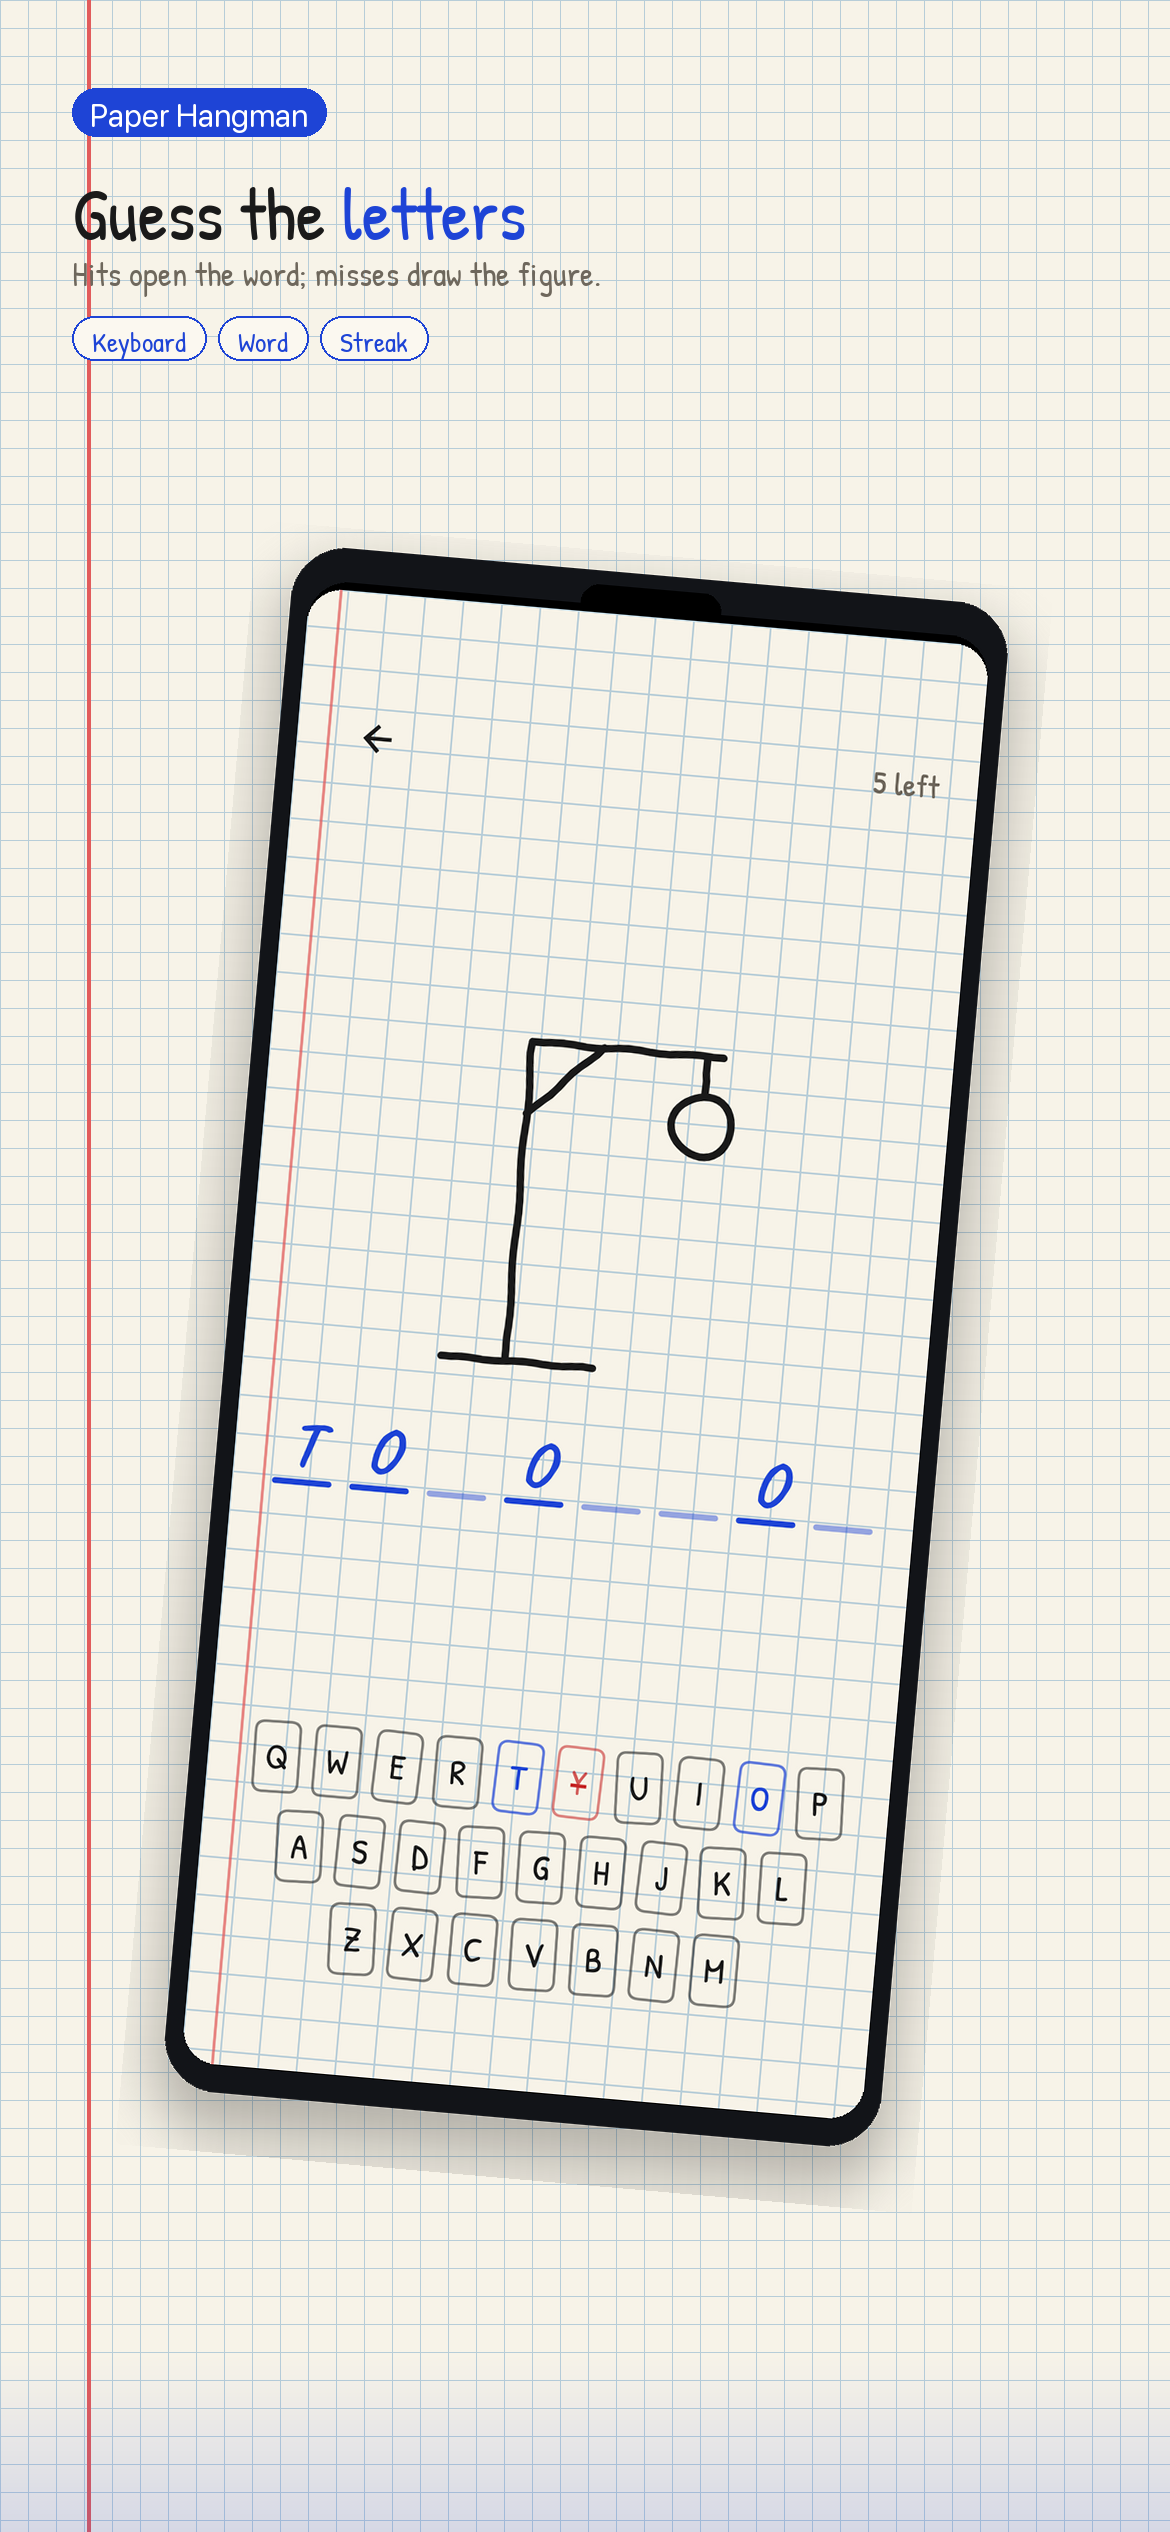
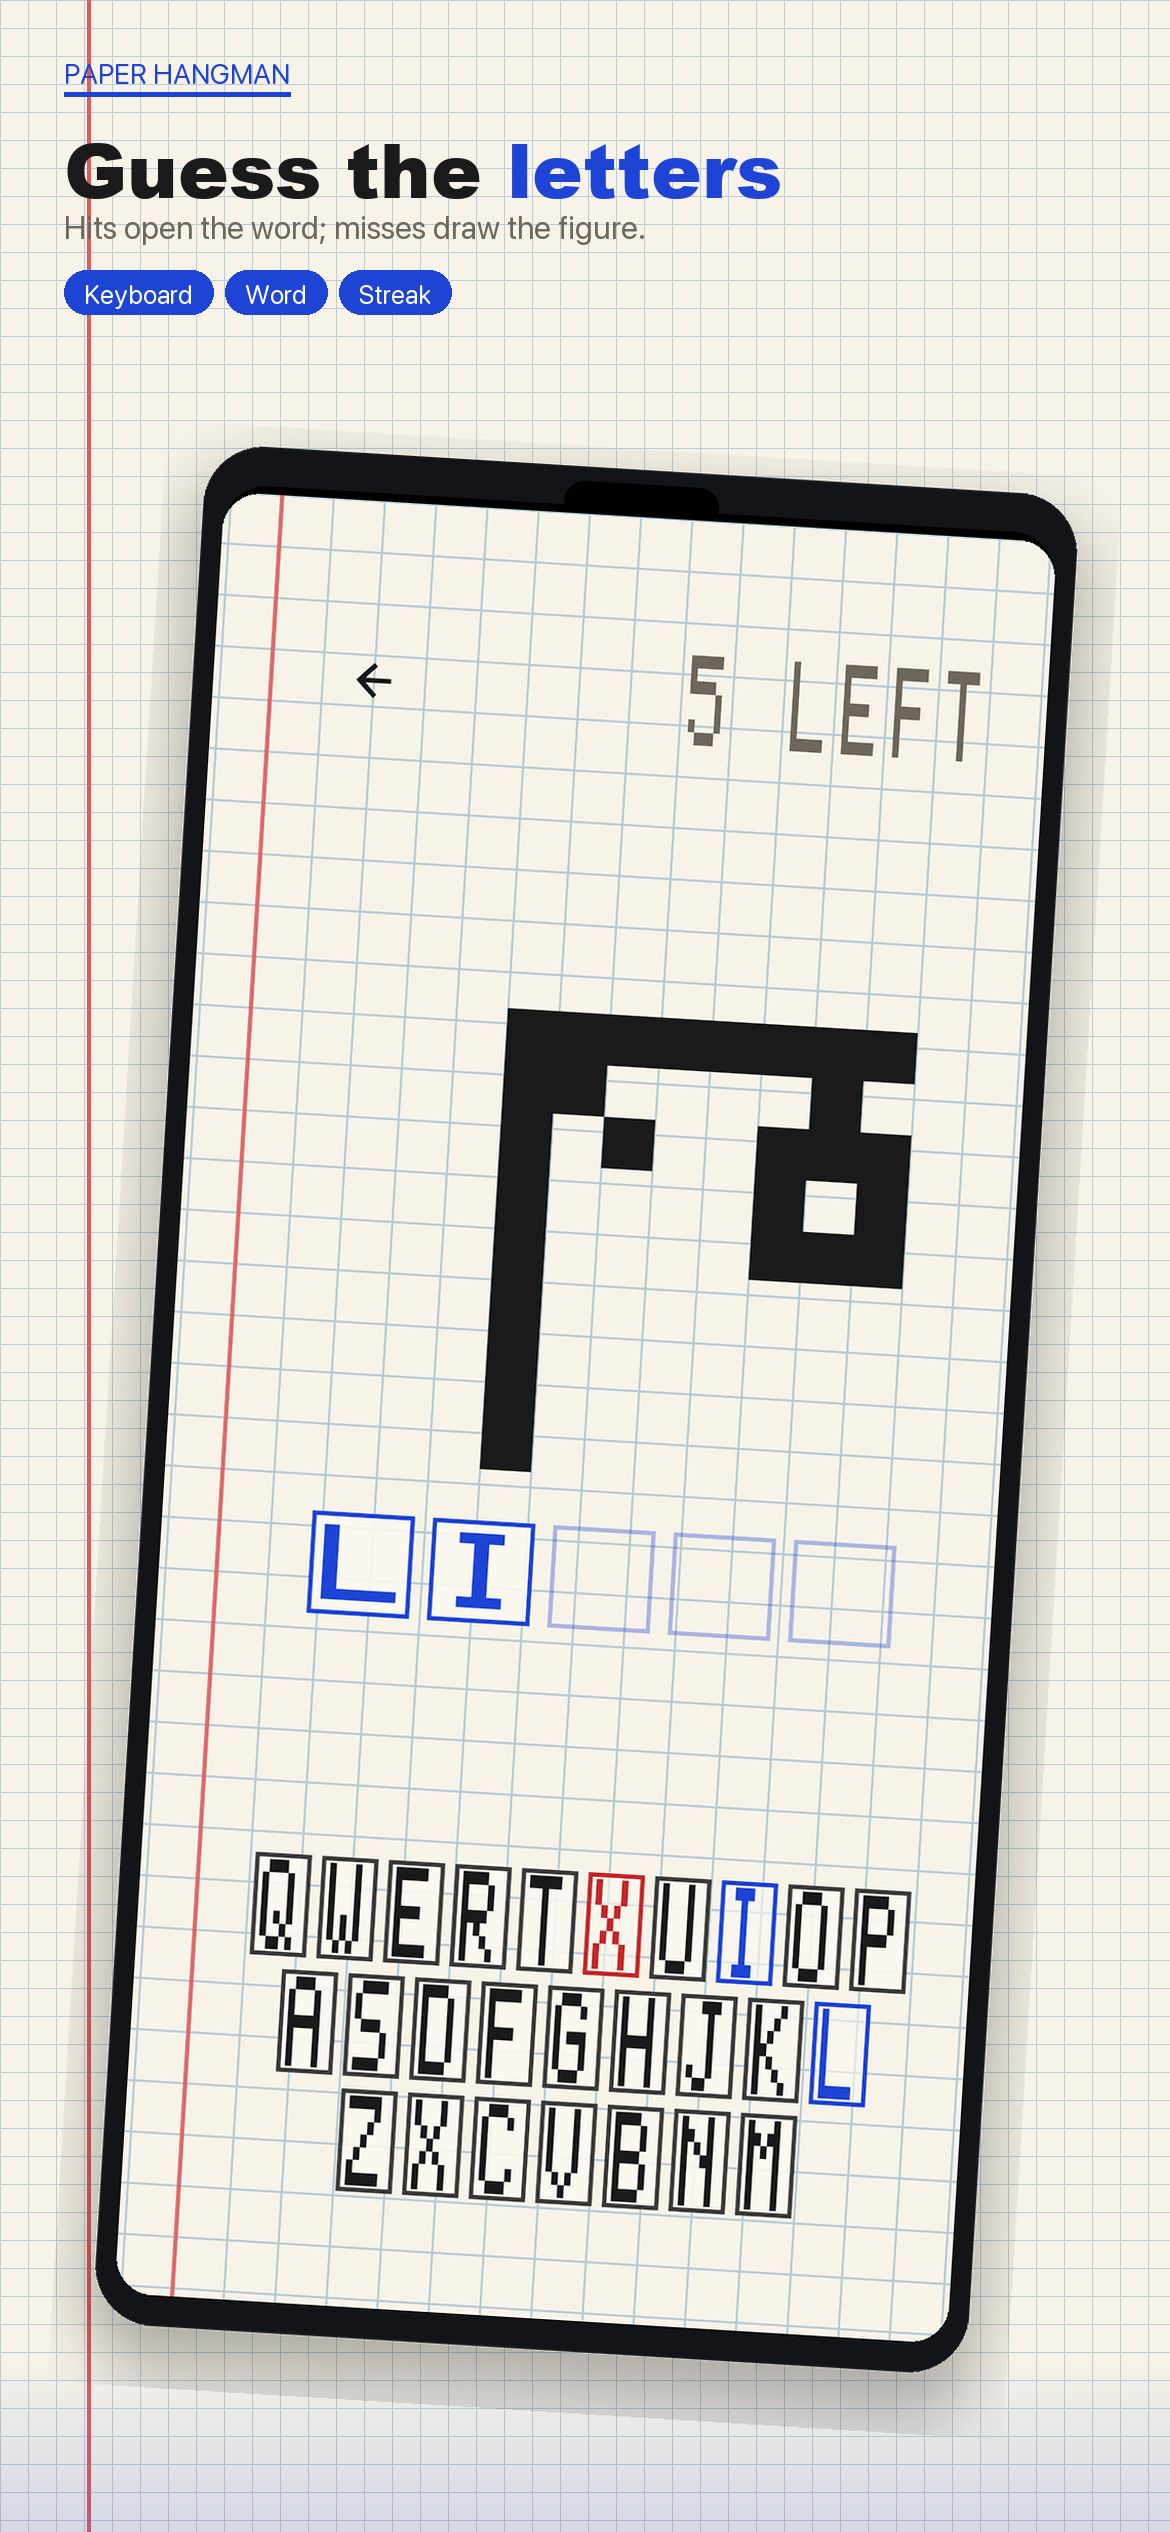
Use bold sans header style A on phone vitrines.

diff --git a/tool/make_play_vitrine.py b/tool/make_play_vitrine.py
@@ -3,6 +3,8 @@
 
 Reads play/gorseller/raw/{tr,en}/0*.png → play/gorseller/{tr,en}/0*.png
 
+Header style A: bold modern sans (Arial Black) + filled blue chips.
+
   python3 tool/make_play_vitrine.py
 """
 from __future__ import annotations
@@ -24,13 +26,11 @@ MARGIN = (225, 91, 91)  # #E15B5B
 GRID = (183, 205, 216)  # #B7CDD8
 MUTED = (110, 103, 92)
 WHITE = (255, 255, 255)
-SOFT = (251, 248, 240)
 
-FONT = "/System/Library/Fonts/SFNSRounded.ttf"
+FONT_SF = "/System/Library/Fonts/SFNS.ttf"
+FONT_SF_R = "/System/Library/Fonts/SFNSRounded.ttf"
+FONT_TITLE = "/System/Library/Fonts/Supplemental/Arial Black.ttf"
 FALLBACK = "/System/Library/Fonts/Supplemental/Arial Unicode.ttf"
-# Prefer game hand font when available
-HAND = ROOT / "fonts" / "PatrickHand-Regular.ttf"
-PEN_FONT = ROOT / "fonts" / "Caveat-Bold.ttf"
 
 SLIDES = {
     "tr": [
@@ -88,10 +88,9 @@ SLIDES = {
 }
 
 
-def font(size: int, hand: bool = False) -> ImageFont.FreeTypeFont:
-    path = HAND if hand and HAND.exists() else FONT
+def font(path: str, size: int) -> ImageFont.FreeTypeFont:
     try:
-        return ImageFont.truetype(str(path), size)
+        return ImageFont.truetype(path, size)
     except OSError:
         return ImageFont.truetype(FALLBACK, size)
 
@@ -116,65 +115,65 @@ def wrap(draw: ImageDraw.ImageDraw, text: str, fnt: ImageFont.FreeTypeFont, max_
 def paper_bg() -> Image.Image:
     img = Image.new("RGB", (W, H), PAPER)
     d = ImageDraw.Draw(img)
-    # grid lines
     step = 28
     for y in range(0, H, step):
         d.line([(0, y), (W, y)], fill=GRID, width=1)
     for x in range(0, W, step):
         d.line([(x, 0), (x, H)], fill=GRID, width=1)
-    # red margin
     d.line([(88, 0), (88, H)], fill=MARGIN, width=4)
-    # soft bottom wash
     wash = Image.new("RGBA", (W, H), (0, 0, 0, 0))
     wd = ImageDraw.Draw(wash)
     for i in range(180):
         a = int(40 * (i / 180))
-        y = H - 180 + i
-        wd.line([(0, y), (W, y)], fill=(30, 68, 214, a))
+        wd.line([(0, H - 180 + i), (W, H - 180 + i)], fill=(30, 68, 214, a))
     return Image.alpha_composite(img.convert("RGBA"), wash).convert("RGB")
 
 
-def rounded_phone(shot: Image.Image, phone_w: int = 860) -> Image.Image:
+def rounded_phone(shot: Image.Image, phone_w: int = 1000) -> Image.Image:
+    """Close-up phone: fills most of the 1170-wide canvas."""
     aspect = shot.height / shot.width
-    screen_w = phone_w - 36
+    screen_w = phone_w - 40
     screen_h = int(screen_w * aspect)
-    max_screen_h = 1480
+    max_screen_h = 1760
     if screen_h > max_screen_h:
         screen_h = max_screen_h
         screen_w = int(screen_h / aspect)
-        phone_w = screen_w + 36
+        phone_w = screen_w + 40
 
-    bezel = 18
-    top_chrome = 42
-    bottom_chrome = 28
+    bezel = 20
+    top_chrome = 46
+    bottom_chrome = 30
     phone_h = screen_h + top_chrome + bottom_chrome
     phone = Image.new("RGBA", (phone_w, phone_h), (0, 0, 0, 0))
     d = ImageDraw.Draw(phone)
-    d.rounded_rectangle([0, 0, phone_w - 1, phone_h - 1], radius=54, fill=(18, 20, 24, 255))
+    d.rounded_rectangle([0, 0, phone_w - 1, phone_h - 1], radius=58, fill=(18, 20, 24, 255))
     d.rounded_rectangle(
         [bezel, top_chrome - 8, phone_w - bezel - 1, phone_h - bottom_chrome],
-        radius=40,
+        radius=42,
         fill=(0, 0, 0, 255),
     )
-    island_w, island_h = 140, 36
+    island_w, island_h = 150, 38
     ix = (phone_w - island_w) // 2
-    d.rounded_rectangle([ix, 14, ix + island_w, 14 + island_h], radius=18, fill=(0, 0, 0, 255))
+    d.rounded_rectangle([ix, 14, ix + island_w, 14 + island_h], radius=19, fill=(0, 0, 0, 255))
 
     screen = shot.resize((screen_w, screen_h), Image.Resampling.LANCZOS).convert("RGBA")
     mask = Image.new("L", (screen_w, screen_h), 0)
-    ImageDraw.Draw(mask).rounded_rectangle([0, 0, screen_w - 1, screen_h - 1], radius=34, fill=255)
+    ImageDraw.Draw(mask).rounded_rectangle([0, 0, screen_w - 1, screen_h - 1], radius=36, fill=255)
     phone.paste(screen, ((phone_w - screen_w) // 2, top_chrome), mask)
 
     shadow = Image.new("RGBA", (phone_w + 80, phone_h + 80), (0, 0, 0, 0))
     ImageDraw.Draw(shadow).rounded_rectangle(
-        [30, 40, phone_w + 50, phone_h + 60], radius=60, fill=(0, 0, 0, 70)
+        [30, 40, phone_w + 50, phone_h + 60], radius=64, fill=(0, 0, 0, 75)
     )
-    shadow = shadow.filter(ImageFilter.GaussianBlur(28))
+    shadow = shadow.filter(ImageFilter.GaussianBlur(30))
     out = Image.new("RGBA", shadow.size, (0, 0, 0, 0))
     out = Image.alpha_composite(out, shadow)
     out.paste(phone, (40, 20), phone)
-    # slight tilt for presence
-    return out.rotate(-5, expand=True, resample=Image.Resampling.BICUBIC)
+    tilted = out.rotate(-3.5, expand=True, resample=Image.Resampling.BICUBIC)
+    target_w = int(W * 0.92)
+    scale = target_w / tilted.width
+    new_size = (target_w, max(1, int(tilted.height * scale)))
+    return tilted.resize(new_size, Image.Resampling.LANCZOS)
 
 
 def draw_title_block(
@@ -185,20 +184,22 @@ def draw_title_block(
     sub: str,
     chips: list[str],
 ) -> int:
+    """Style A — bold sans headline + filled chips."""
     d = ImageDraw.Draw(canvas)
-    title_f = font(74, hand=True)
-    sub_f = font(34, hand=True)
-    chip_f = font(28, hand=True)
-    brand_f = font(32, hand=False)
+    brand_f = font(FONT_SF_R, 28)
+    title_f = font(FONT_TITLE, 76)
+    sub_f = font(FONT_SF, 32)
+    chip_f = font(FONT_SF_R, 26)
 
-    pad_x = 72
+    pad_x = 64
     max_w = W - pad_x * 2
-    y = 88
+    y = 56
 
-    bw = d.textlength(brand, font=brand_f) + 36
-    d.rounded_rectangle([pad_x, y, pad_x + bw, y + 48], radius=24, fill=PEN)
-    d.text((pad_x + 18, y + 8), brand, font=brand_f, fill=WHITE)
-    y += 74
+    label = brand.upper()
+    d.text((pad_x, y), label, font=brand_f, fill=PEN)
+    tw = d.textlength(label, font=brand_f)
+    d.rectangle([pad_x, y + 36, pad_x + tw, y + 40], fill=PEN)
+    y += 58
 
     for line in wrap(d, title, title_f, max_w):
         if accent_word and accent_word in line:
@@ -213,12 +214,12 @@ def draw_title_block(
                     x += d.textlength(accent_word, font=title_f)
         else:
             d.text((pad_x, y), line, font=title_f, fill=INK)
-        y += 84
+        y += 88
 
-    y += 4
+    y += 6
     for line in wrap(d, sub, sub_f, max_w):
         d.text((pad_x, y), line, font=sub_f, fill=MUTED)
-        y += 44
+        y += 40
 
     y += 22
     x = pad_x
@@ -226,13 +227,12 @@ def draw_title_block(
         cw = d.textlength(chip, font=chip_f) + 40
         if x + cw > W - pad_x:
             x = pad_x
-            y += 54
-        d.rounded_rectangle([x, y, x + cw, y + 44], radius=22, fill=SOFT)
-        d.rounded_rectangle([x, y, x + cw, y + 44], radius=22, outline=PEN, width=2)
-        d.text((x + 20, y + 6), chip, font=chip_f, fill=PEN)
+            y += 56
+        d.rounded_rectangle([x, y, x + cw, y + 44], radius=22, fill=PEN)
+        d.text((x + 20, y + 8), chip, font=chip_f, fill=WHITE)
         x += cw + 12
 
-    return y + 64
+    return y + 56
 
 
 def compose(lang: str, slide: dict) -> Image.Image:
@@ -251,11 +251,11 @@ def compose(lang: str, slide: dict) -> Image.Image:
     )
 
     shot = Image.open(raw_path).convert("RGBA")
-    phone = rounded_phone(shot, phone_w=820)
+    phone = rounded_phone(shot, phone_w=1000)
     px = (W - phone.width) // 2
-    py = min(max(y_after - 30, 520), H - phone.height + 60)
-    if py + phone.height > H + 20:
-        py = H - phone.height + 60
+    py = min(max(y_after - 20, 420), H - phone.height + 140)
+    if py + phone.height > H + 120:
+        py = H - phone.height + 140
     canvas.alpha_composite(phone, (px, py))
     return canvas.convert("RGB")
 
